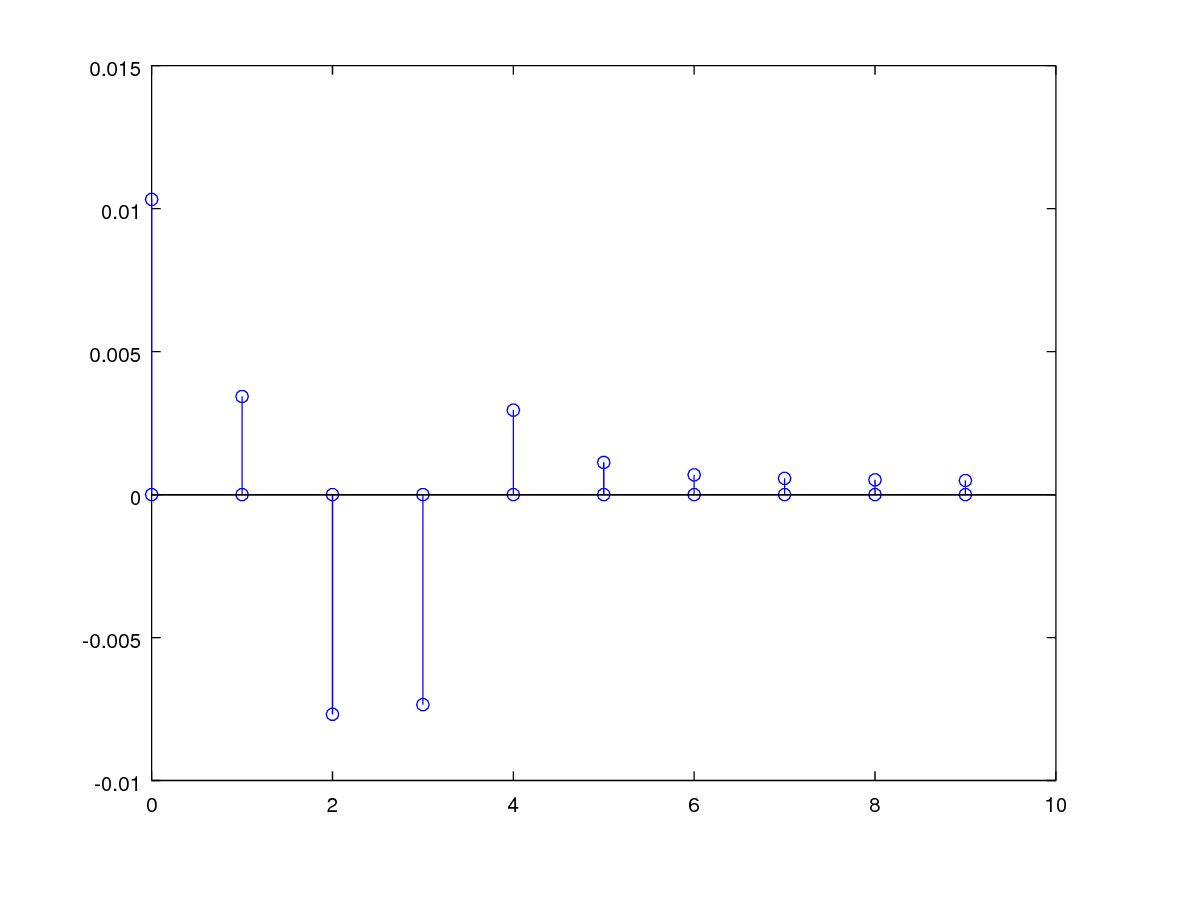
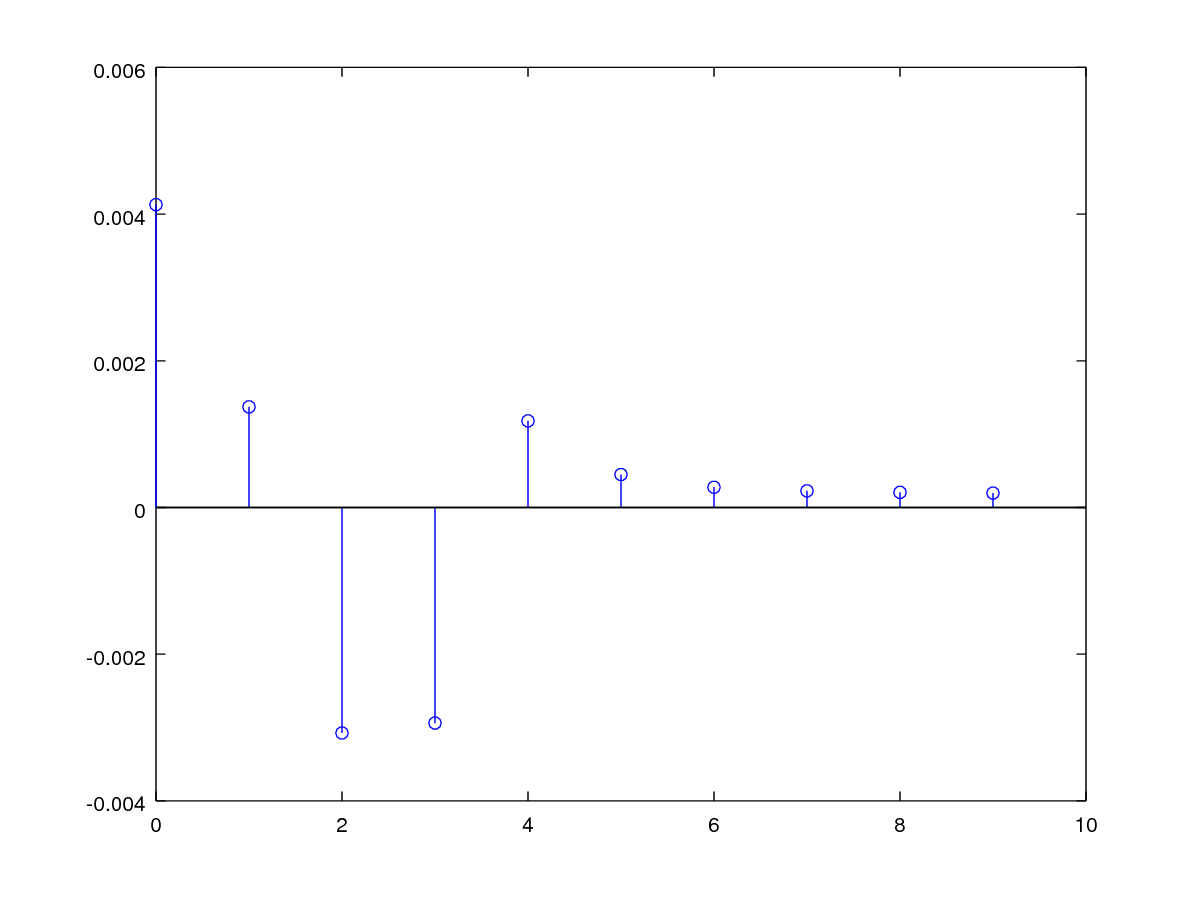
-

diff --git a/The_Scientist_and_Engineers_Guide_to_DSP_Smith/tst2.m b/The_Scientist_and_Engineers_Guide_to_DSP_Smith/tst2.m
@@ -2,13 +2,15 @@
 fy=300; %signal frequency in Hz
 wy=2*pi*fy; %signal frequency in rad/s
 
-fs=20; %sampling frequency in Hz
+fs=50; %sampling frequency in Hz
 tiv=1/fs; %time interval between samples;
 t=0:tiv:(5-tiv); %time intervals set (5 seconds)
 
-N = 100
+N = size(t)(2)
 
 y=0.6*sin(wy*t)+0.3*sin(3*wy*t)+0.2*sin(5*wy*t); %signal data set
+plot(t,y)
+print ('out0.png')
 
 fou=fft(y,fs);
 hmag=real(fou); ah=hmag/N;
@@ -19,13 +21,10 @@ print ('out1.png')
 pkg load signal
 order = 32
 fc1 = 4
-fc2 = 0
 fs = 20
-filter_type = 'low'
-window_type = 'hamming'
-analyse_plot = 'n'
 f1 = my_sinc_filter_low(order, fc1, fs);
 
+figure()
 fou=fft(f1,fs);
 hmag=real(fou); ah=hmag/N;
 stem(0:9,ah(1:10)); hold on;

diff --git a/The_Scientist_and_Engineers_Guide_to_DSP_Smith/tst1.m b/The_Scientist_and_Engineers_Guide_to_DSP_Smith/tst1.m
@@ -14,7 +14,7 @@ f1 = window_sinc_filter(order, fc1, fc2, fs, filter_type, window_type, analyse_p
 size(f1)
 f1
 
-f2 = fir1(32, fc1, "low", "hamming", "noscale");
+f2 = fir1(order, fc1, "low", "hamming", "noscale");
 size(f2)
 f2
 
